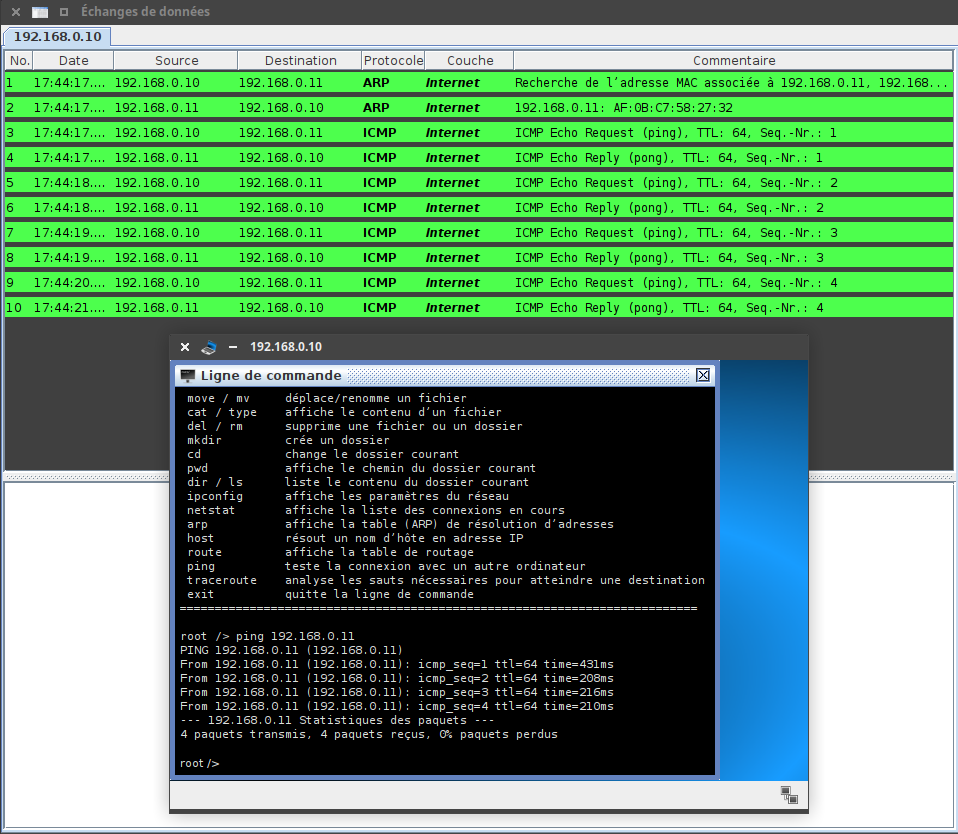
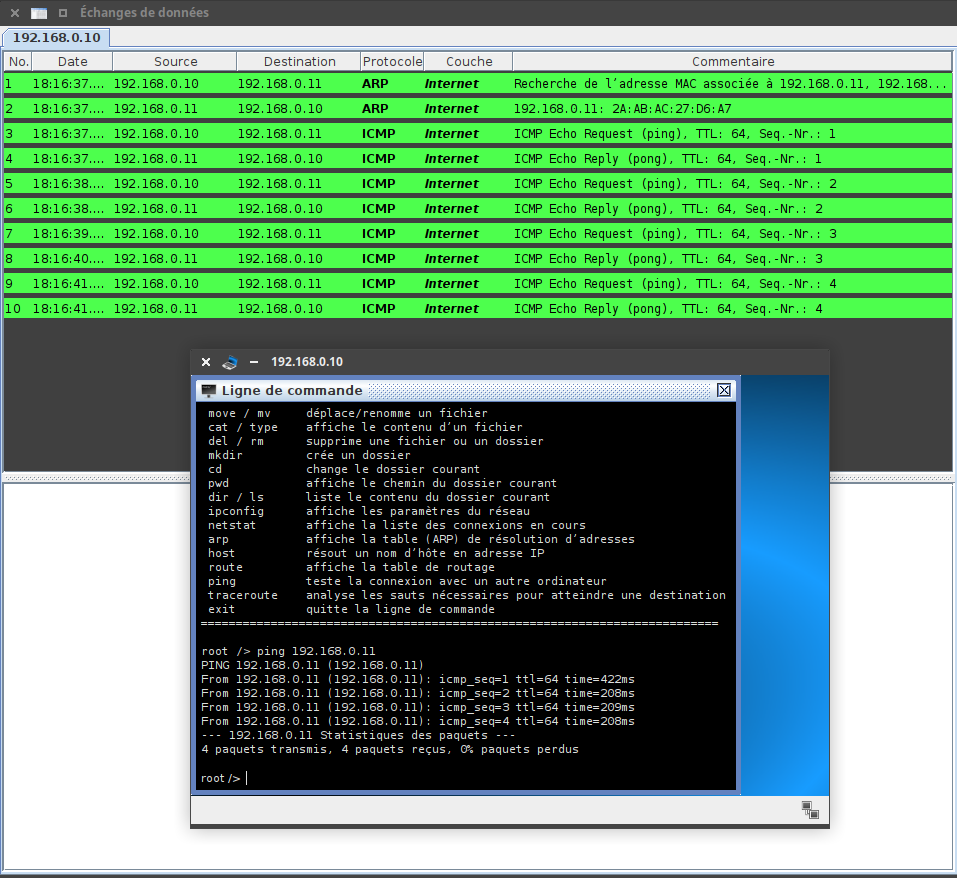
maj

diff --git a/Premiere/Theme04_Architecture_materielle/04_Protocoles_de_communication.md b/Premiere/Theme04_Architecture_materielle/04_Protocoles_de_communication.md
@@ -12,14 +12,40 @@ Les différents protocoles qui régissent cette transmission sont regroupés dan
 Ces deux modèles coïncident suivant le schéma ci-dessus. Dans la suite de ce cours, nous évoquerons les couches par leur numéro dans le modèle OSI.
 
 Lors de la préparation d'un message à envoyer (une requête GET, par exemple), cette requête va successivement être **encapsulée** en descendant à travers chaque couche.  
-La trame qui est émise par l'ordinateur émetteur du message sera partiellement décapsulée au cours de son parcours sur le réseau, notamment lors du passage à travers les switchs (équipements de réseau travaillant sur la couche 2 / liaison, avec les adresses MAC), ou bien à travers les routeurs (équipements de réseau travaillant sur la couche 3 /réseau, avec les adresses IP), avant d'être totalement décapsulés lors de la réception par l'ordinateur destinataire.
+La trame qui est émise par l'ordinateur émetteur du message sera partiellement décapsulée au cours de son parcours sur le réseau, notamment lors du passage à travers les switchs (équipements de réseau travaillant sur la couche 2 / liaison, avec les adresses MAC), ou bien à travers les routeurs (équipements de réseau travaillant sur la couche 3 / réseau, avec les adresses IP), avant d'être totalement décapsulée lors de la réception par l'ordinateur destinataire.
 
 ## II. Observation des trames avec Filius
 
 ### 1. Ping à travers un switch
-- Relions une machine ```192.168.0.10``` d'adresse MAC ```A6:93:FC:76:76:D1```  à une machine ```192.168.0.11``` d'adresse MAC ```AF:0B:C7:58:27:32``` à travers un switch.  
+- Relions une machine ```192.168.0.10``` d'adresse MAC ```BC:81:81:42:9C:31```  à une machine ```192.168.0.11``` d'adresse MAC ```2A:AB:AC:27:D6:A7``` à travers un switch.  
 ![](data/K1.png)
 - Observons la table SAT de notre switch : elle est vide, car aucune machine n'a encore cherché à communiquer.  
 ![](data/K2.png) 
 - Lançons un ping depuis ```192.168.0.10``` vers ```192.168.0.11``` et observons les données échangées :  
 ![](data/K3.png) 
+- Observons de plus près la première ligne de données échangées.  
+![](data/K4.png) 
+Cette première ligne est une requête **ARP**. ARP est un protocole qui s'interface entre la couche 3 / réseau (appelée dans la capture d'écran _Internet_)  et la couche 2 / liaison (appelée dans la capture d'écran _Réseau_). Comme indiqué dans le commentaire, elle consiste à un appel à tout le réseau : "Est-ce que quelqu'un ici possède l'IP ```192.168.0.11``` ?
+
+**Message 1 : l'appel à l'aide**
+
+Il faut comprendre à cette étape que l'adresse IP est totalement inutile pour répérer un ordinateur dans un sous-réseau. Ce sont les adresses MAC qui permettent de se repérer dans un sous-réseau. Les adresses IP, elles, permettent d'acheminer le message jusqu'au bon sous-réseau (elles n'intéressent donc que les routeurs).
+
+Une analogie souvent prise est celle de l'adresse postale : lorsque une personne dit à une personne d'un même quartier "j'habite au 24 rue Lamartine", elle lui donne son adresse MAC.
+⇒ L'adresse MAC est le renseignement obligatoire à l'intérieur d'un sous-réseau.
+
+
+ Lorsque cette même personne dit à une connaissance de vacances "j'habite à Floirac, en Gironde", elle lui donne son adresse IP. 
+ ⇒ L'adresse IP est le renseignement obligatoire à l'extérieur d'un sous-réseau.
+
+
+Revenons à notre ping vers ```192.168.0.11```.
+
+La commande ```arp -a``` effectuée dans un terminal de la machine ```192.168.0.10``` nous permet de voir qu'elle ne connaît encore personne dans son sous-réseau. La table de correspondance MAC ⮀ IP ne contient que l'adresse de broadcast ```255.255.255.255```, qui permet d'envoyer un message à tout le réseau.  
+![](data/K5.png) 
+
+Constatant qu'elle ne sait pas qu'elle est l'adresse MAC de ```192.168.0.11```, elle commence donc par envoyer un message à **tout** le sous-réseau, à l'adresse MAC de broadcast ```FF:FF:FF:FF:FF:FF```. Le switch va lui aussi lui aussi relayer ce message à tous les équipements qui lui sont connectés (dans notre cas, un seul ordinateur) 
+
+
+**Message 2 : la réponse**
+La machine ```192.168.0.11``` ayant reçu un message de ```192.168.0.10```, elle connait son adresse MAC. En effet, la commande ```arp -a``` donne 
